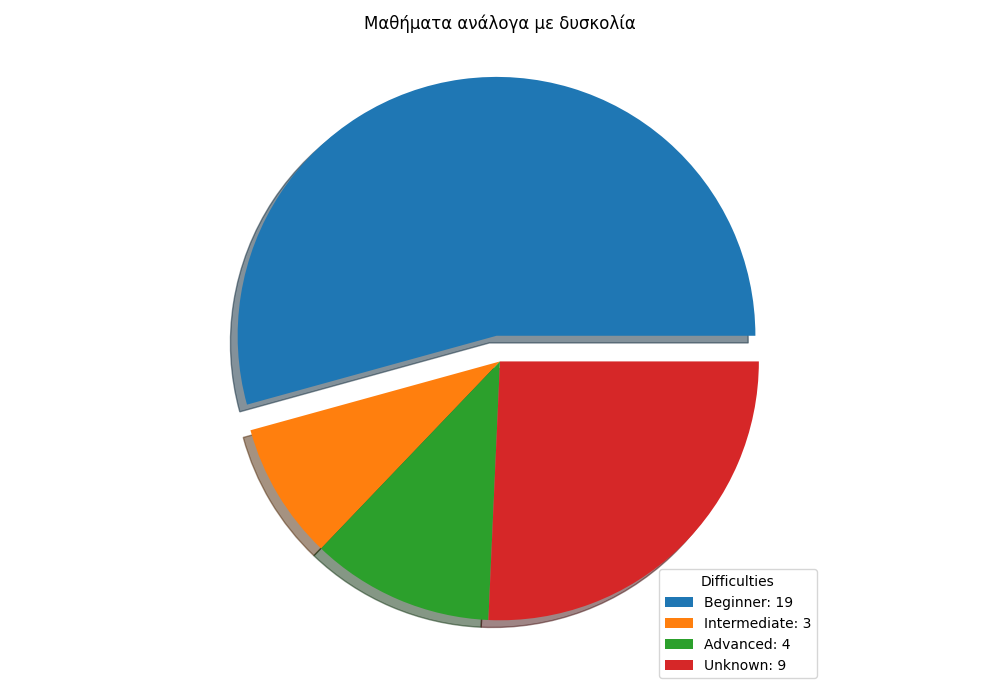
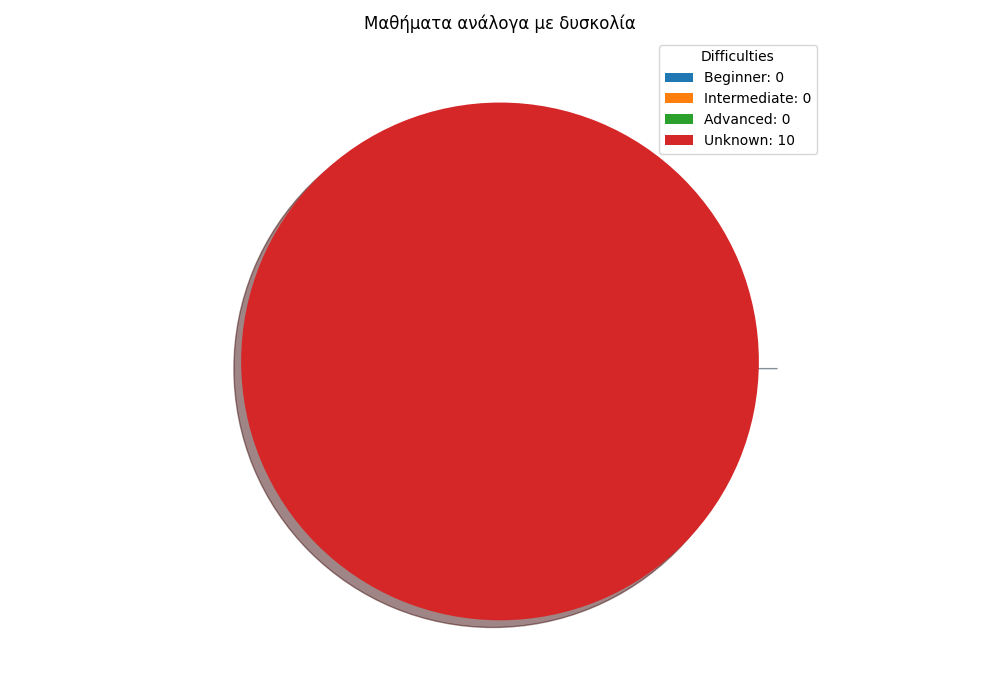
Fixed Coursera Scrapper

Changed region(s): [[0.217, 0.06, 0.806, 0.9], [0.651, 0.81, 0.806, 0.96]]

diff --git a/scraper.py b/scraper.py
@@ -199,7 +199,7 @@ def CourseraScraper(url):
         if len(Coursera_courses) >= number_of_courses:
             break
 
-        provider_tag = block.find("p", class_="cds-ProductCard-partnerNames")
+        provider_tag = block.find("p", class_="cds-ProductCard-partnerNames css-4s48ix")
         provider = provider_tag.get_text(strip=True) if provider_tag else "N/A"
 
         title_tag = block.find("h3", class_="cds-CommonCard-title")

diff --git a/gui.py b/gui.py
@@ -79,7 +79,6 @@ def add_subjects():
     elif method == "Udemy Free":
         source_name = "Udemy (API)"
         print(f"[{source_name}] Status: Starting API Data Collection...")
-        messagebox.showerror("Error", f"Αποτυχία συλλογής δεδομένων απο το {source_name}.")
         result_df = freeUdemyCourse()
 
     if result_df is not None and not result_df.empty:

diff --git a/plots.py b/plots.py
@@ -27,7 +27,6 @@ def LinePlot():
 
 
 def PieChart():
-    diffLevel = ['unknown','beginner', 'intermediate', 'advanced']
     df = pd.read_csv("courses_1115515.csv", delimiter=',')
     diffCol = df.get("Difficulty")
 